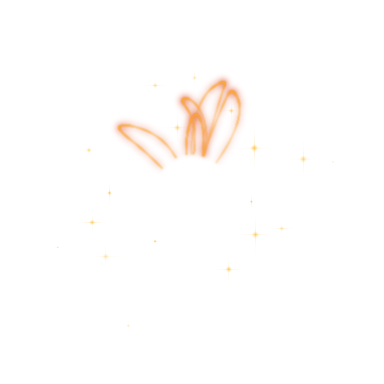
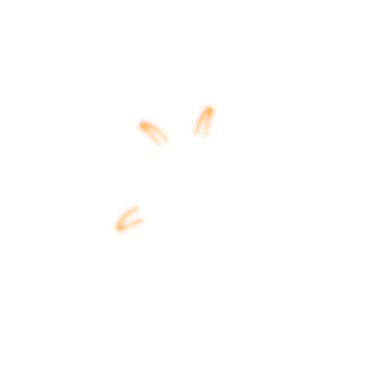
Gem light: subtle, slow and finely detailed
The light is smaller (about three gem-widths across), fainter, and built from fine noise like the
gems' own insides rather than drawn strokes: a white dwarf's glare and faint spikes over slowly
counter-turning radial grain; a sun's fine corona streamers and thin, broken threads of plasma
arching off its rim; a black hole's dust lanes drawn inward past a rippling lensed ring. Turns now
take minutes, and swells and shimmers move by a few percent over several seconds.

Claude-Session: https://claude.ai/code/session_01AGgLXhEWFDWnAiYRCGkagM

diff --git a/src/styles.css b/src/styles.css
@@ -4903,35 +4903,34 @@ button.cmp-turn { display: flex; align-items: baseline; gap: 6px; padding: 5px 1
 }
 
 /* ---------- The rarity gem's light ---------- */
-/* The body in each gem is breaking out of it: its light spills over the card, as detailed as the gem itself
-   (scripts/render_gem_light.py). A white dwarf's spikes flare with the gem's own breath while two fields of
-   fine filaments turn against each other and shimmer; a sun's corona streams out in curling streamers and
-   prominences loop off its rim and surge; a black hole drags spiral streaks of light in round its lensed ring.
-   Each layer turns, swells and flickers on its own clock, out of step with other cards (--gp). Only transform
-   (as rotate and scale) and opacity move, which the compositor runs off the main thread. */
+/* The body in each gem is breaking out of it: its light spills faintly over the card, in the same fine detail as
+   the gem itself (scripts/render_gem_light.py). A white dwarf's glare and faint diffraction spikes breathe with
+   the gem while two fields of fine radial grain turn slowly against each other and shimmer; a sun's corona
+   streams out in fine streamers while thin threads of plasma arch off its rim and slowly swell; a black hole's
+   dust lanes are dragged round it, inward, past its rippling lensed ring. Everything moves slowly and by little,
+   each layer on its own clock and out of step with other cards (--gp). Only rotate, scale and opacity move,
+   which the compositor runs off the main thread. */
 .gem .gem-light { display: none; }
-.card .gem .gem-light { display: block; position: absolute; inset: -200%; z-index: -2; pointer-events: none; opacity: 0.9; }
+/* (The light images are 1 / 0.3 gem-widths across, centred on the gem.) */
+.card .gem .gem-light { display: block; position: absolute; inset: -116.67%; z-index: -2; pointer-events: none; opacity: 0.85; }
 .card.kind-command .gem .gem-light { opacity: 1; }
 .gem-light .gl { position: absolute; inset: 0; display: block; background-size: 100% 100%; will-change: transform, opacity; }
-.gl-spikes { background-image: var(--gem-lightDwarfSpikes); animation: glFlare 3.8s ease-in-out infinite; animation-delay: calc(var(--gp) * -3.8s); }
-.gl-shimmer1 { background-image: var(--gem-lightDwarfShimmer1); animation: glTurn 70s linear infinite, glShimmer 1.9s ease-in-out infinite; animation-delay: calc(var(--gp) * -70s), calc(var(--gp) * -1.9s); }
-.gl-shimmer2 { background-image: var(--gem-lightDwarfShimmer2); animation: glTurnBack 47s linear infinite, glShimmer 2.7s ease-in-out infinite; animation-delay: calc(var(--gp) * -47s), calc(var(--gp) * -2.7s); }
-.gl-sparks { background-image: var(--gem-lightDwarfSparks); animation: glTurn 120s linear infinite, glTwinkle 1.3s ease-in-out infinite; animation-delay: calc(var(--gp) * -120s), calc(var(--gp) * -1.3s); }
-.gl-corona1 { background-image: var(--gem-lightSunCorona1); animation: glTurn 90s linear infinite, glBreathe 5.5s ease-in-out infinite; animation-delay: calc(var(--gp) * -90s), calc(var(--gp) * -5.5s); }
-.gl-corona2 { background-image: var(--gem-lightSunCorona2); animation: glTurnBack 130s linear infinite, glShimmer 3.3s ease-in-out infinite; animation-delay: calc(var(--gp) * -130s), calc(var(--gp) * -3.3s); }
-.gl-flares1 { background-image: var(--gem-lightSunFlares1); animation: glTurn 160s linear infinite, glSurge 4.2s ease-in-out infinite; animation-delay: calc(var(--gp) * -160s), calc(var(--gp) * -4.2s); }
-.gl-flares2 { background-image: var(--gem-lightSunFlares2); animation: glTurnBack 210s linear infinite, glSurge 6.1s ease-in-out infinite; animation-delay: calc(var(--gp) * -210s), calc(var(--gp) * -6.1s - 2s); }
-/* (Turning forward, the spirals' arms sweep inward: the hole is pulling the light in.) */
-.gl-swirl1 { background-image: var(--gem-lightHoleSwirl1); animation: glTurn 13s linear infinite, glShimmer 2.2s ease-in-out infinite; animation-delay: calc(var(--gp) * -13s), calc(var(--gp) * -2.2s); }
-.gl-swirl2 { background-image: var(--gem-lightHoleSwirl2); animation: glTurn 23s linear infinite, glBreathe 7s ease-in-out infinite; animation-delay: calc(var(--gp) * -23s), calc(var(--gp) * -7s); }
-.gl-lens { background-image: var(--gem-lightHoleLens); animation: glLens 2.6s ease-in-out infinite; animation-delay: calc(var(--gp) * -2.6s); }
+.gl-spikes { background-image: var(--gem-lightDwarfSpikes); animation: glBreathe 3.8s ease-in-out infinite; animation-delay: calc(var(--gp) * -3.8s); }
+.gl-shimmer1 { background-image: var(--gem-lightDwarfShimmer1); animation: glTurn 300s linear infinite, glShimmer 7s ease-in-out infinite; animation-delay: calc(var(--gp) * -300s), calc(var(--gp) * -7s); }
+.gl-shimmer2 { background-image: var(--gem-lightDwarfShimmer2); animation: glTurnBack 220s linear infinite, glShimmer 9.5s ease-in-out infinite; animation-delay: calc(var(--gp) * -220s), calc(var(--gp) * -9.5s - 3s); }
+.gl-sparks { background-image: var(--gem-lightDwarfSparks); animation: glTurn 480s linear infinite, glShimmer 6s ease-in-out infinite; animation-delay: calc(var(--gp) * -480s), calc(var(--gp) * -6s); }
+.gl-corona1 { background-image: var(--gem-lightSunCorona1); animation: glTurn 360s linear infinite, glBreathe 5.5s ease-in-out infinite; animation-delay: calc(var(--gp) * -360s), calc(var(--gp) * -5.5s); }
+.gl-corona2 { background-image: var(--gem-lightSunCorona2); animation: glTurnBack 480s linear infinite, glShimmer 8s ease-in-out infinite; animation-delay: calc(var(--gp) * -480s), calc(var(--gp) * -8s); }
+.gl-flares1 { background-image: var(--gem-lightSunFlares1); animation: glTurn 600s linear infinite, glSwell 11s ease-in-out infinite; animation-delay: calc(var(--gp) * -600s), calc(var(--gp) * -11s); }
+.gl-flares2 { background-image: var(--gem-lightSunFlares2); animation: glTurnBack 780s linear infinite, glSwell 14s ease-in-out infinite; animation-delay: calc(var(--gp) * -780s), calc(var(--gp) * -14s - 5s); }
+/* (Turning forward, the lanes' spirals sweep inward: the hole is pulling the light in.) */
+.gl-swirl1 { background-image: var(--gem-lightHoleSwirl1); animation: glTurn 60s linear infinite, glShimmer 8s ease-in-out infinite; animation-delay: calc(var(--gp) * -60s), calc(var(--gp) * -8s); }
+.gl-swirl2 { background-image: var(--gem-lightHoleSwirl2); animation: glTurn 110s linear infinite, glShimmer 12s ease-in-out infinite; animation-delay: calc(var(--gp) * -110s), calc(var(--gp) * -12s - 4s); }
+.gl-lens { background-image: var(--gem-lightHoleLens); animation: glLens 6s ease-in-out infinite; animation-delay: calc(var(--gp) * -6s); }
 @keyframes glTurn { to { rotate: 360deg; } }
 @keyframes glTurnBack { to { rotate: -360deg; } }
-@keyframes glFlare { 0%, 100% { scale: 0.9; opacity: 0.7; } 50% { scale: 1.08; opacity: 1; } }
-@keyframes glShimmer { 0%, 100% { opacity: 0.55; } 30% { opacity: 1; } 55% { opacity: 0.7; } 80% { opacity: 0.95; } }
-@keyframes glTwinkle { 0%, 100% { opacity: 0.4; } 25% { opacity: 1; } 50% { opacity: 0.6; } 70% { opacity: 0.95; } }
-@keyframes glBreathe { 0%, 100% { scale: 0.94; opacity: 0.75; } 50% { scale: 1.08; opacity: 1; } }
-/* A surge: the prominences heave outward, then sink back, as if pushing at the glass. */
-@keyframes glSurge { 0%, 100% { scale: 0.88; opacity: 0.55; } 40% { scale: 1.1; opacity: 1; } 55% { scale: 1.05; opacity: 0.9; } }
-@keyframes glLens { 0%, 100% { scale: 0.97; opacity: 0.75; } 50% { scale: 1.04; opacity: 1; } }
-@media (prefers-reduced-motion: reduce) { .gem-light .gl { animation-duration: 240s, 12s; } .gl-spikes, .gl-lens { animation-duration: 12s; } }
+@keyframes glBreathe { 0%, 100% { scale: 0.97; opacity: 0.8; } 50% { scale: 1.03; opacity: 1; } }
+@keyframes glShimmer { 0%, 100% { opacity: 0.7; } 35% { opacity: 1; } 65% { opacity: 0.8; } }
+@keyframes glSwell { 0%, 100% { scale: 0.98; opacity: 0.7; } 50% { scale: 1.04; opacity: 1; } }
+@keyframes glLens { 0%, 100% { scale: 0.99; opacity: 0.8; } 50% { scale: 1.015; opacity: 1; } }
+@media (prefers-reduced-motion: reduce) { .gem-light .gl { animation-duration: 1200s, 30s; } .gl-spikes, .gl-lens { animation-duration: 30s; } }

diff --git a/scripts/render_gem_light.py b/scripts/render_gem_light.py
@@ -7,7 +7,7 @@ sun's corona streaming out in curling streamers with prominences looping off its
 accretion streaks spiralling in and its lensed ring. Each is a few layers that CSS turns, breathes and
 flickers out of step (styles.css, "The rarity gem's light"), so the light never repeats.
 
-Each image is five gem-widths across with the gem in the middle (its window, radius G, is left dark: the
+Each image is a little over three gem-widths across with the gem in the middle (its window, radius G, is left dark: the
 gem covers it). Alpha carries the light, so it reads over the white card and over the picture alike.
 """
 import os
@@ -22,7 +22,7 @@ c = (N - 1) / 2
 dx, dy = (x - c) / (N / 2), (y - c) / (N / 2)
 r = np.hypot(dx, dy)
 th = np.arctan2(dy, dx)
-G = 0.2            # the gem's radius, in this image's half-widths
+G = 0.3            # the gem's radius, in this image's half-widths (the image is 1 / G gem-widths across)
 px = 2 / N         # one pixel, in the same units
 
 
@@ -81,19 +81,6 @@ def splat(points, weights, sigma):
     return gaussian_filter(img, sigma)
 
 
-def sparkles(seed, n, r0, r1, size, colour, light, bright=1.0):
-    """Tiny four-pointed sparkles scattered round the gem, dimmer further out."""
-    g = np.random.default_rng(seed)
-    for _ in range(n):
-        rr = r0 + (r1 - r0) * g.random() ** 1.6; aa = g.random() * 2 * np.pi
-        cx, cy = rr * np.cos(aa), rr * np.sin(aa)
-        s = size * (0.5 + g.random()); b = bright * (0.35 + 0.65 * g.random()) * (1.15 - rr)
-        ddx, ddy = dx - cx, dy - cy
-        core = np.exp(-(ddx ** 2 + ddy ** 2) / (2 * (s * 0.35) ** 2))
-        spikes = np.exp(-(ddx / (s * 0.1)) ** 2) * np.exp(-np.abs(ddy) / (s * 1.4)) + np.exp(-(ddy / (s * 0.1)) ** 2) * np.exp(-np.abs(ddx) / (s * 1.4))
-        light.add(b * (core * 1.5 + spikes * 0.7), colour)
-
-
 def rays(light, seed, n, width, length, colour_in, colour_out, bright, angles=None):
     """Thin straight rays out of the gem: random filaments, or set spikes when `angles` is given."""
     g = np.random.default_rng(seed)
@@ -108,86 +95,84 @@ def rays(light, seed, n, width, length, colour_in, colour_out, bright, angles=No
         light.add(amt, mix(colour_in, colour_out, (r - G) / (L * 2.2)))
 
 
-# ---------------------------------------------------------------- White dwarf: searing, crystalline
-ICE, WHITE, DEEP = [0.55, 0.75, 1.0], [0.92, 0.97, 1.0], [0.25, 0.45, 0.95]
+# The light is subtle: fine grain and soft falloff, the same kind of detail as inside the gems (noise turned and
+# swirled, not drawn strokes), faint enough that the card shows through it.
 
-L = Light()   # the spikes: four long, four short, like light through a telescope's vanes
-rays(L, 1, 0, 0.010, 0.42, WHITE, ICE, 2.6, angles=np.radians([0, 90, 180, 270]))
-rays(L, 2, 0, 0.007, 0.2, WHITE, ICE, 1.4, angles=np.radians([45, 135, 225, 315]))
-L.add(1.6 * np.exp(-np.maximum(r - G, 0) / 0.09), mix(WHITE, ICE, (r - G) / 0.2))   # the glare round the gem
+# ---------------------------------------------------------------- White dwarf: a searing point, finely rayed
+ICE, WHITE, DEEP = [0.6, 0.78, 1.0], [0.92, 0.97, 1.0], [0.32, 0.5, 0.95]
+near = np.maximum(r - G, 0)
+
+L = Light()   # its glare, with faint diffraction spikes (four, and four fainter between)
+L.add(1.1 * np.exp(-near / 0.07), mix(WHITE, ICE, near / 0.15))
+rays(L, 1, 0, 0.0045, 0.22, WHITE, ICE, 0.7, angles=np.radians([0, 90, 180, 270]))
+rays(L, 2, 0, 0.0035, 0.1, WHITE, ICE, 0.35, angles=np.radians([45, 135, 225, 315]))
 L.save('light-dwarf-spikes.png')
 
-for i, (seed, n) in enumerate([(11, 110), (12, 90)]):   # two fields of fine filaments, turned against each other: shimmer
+for i, seed in enumerate([11, 12]):   # two fields of very fine radial grain, turned slowly against each other: shimmer
     L = Light()
-    rays(L, seed, n, 0.0035, 0.2, WHITE, DEEP, 1.1)
+    grain = polar_noise(seed, 1440, 128, 0.7, 26)
+    grain = np.clip(grain * 1.6 - 0.65, 0, 1) ** 1.8
+    L.add(3.2 * grain * np.exp(-near / 0.13), mix(WHITE, DEEP, near / 0.3))
     L.save(f'light-dwarf-shimmer{i + 1}.png')
 
-L = Light()
-sparkles(21, 26, G * 1.2, 0.85, 0.022, ICE, L, 1.6)
+L = Light()   # a few motes of light caught in it
+g = np.random.default_rng(21)
+for _ in range(10):
+    rr = G * 1.15 + (0.85 - G * 1.15) * g.random() ** 1.5; aa = g.random() * 2 * np.pi
+    d2 = (dx - rr * np.cos(aa)) ** 2 + (dy - rr * np.sin(aa)) ** 2
+    L.add((0.5 + 0.5 * g.random()) * (1.1 - rr) * np.exp(-d2 / (2 * (px * 0.7) ** 2)), WHITE)
 L.save('light-dwarf-sparks.png')
 
-# ---------------------------------------------------------------- Stellar: a sun boiling over its socket
-CORE, GOLD, ORANGE, RED = [1.0, 0.95, 0.75], [1.0, 0.78, 0.3], [1.0, 0.5, 0.12], [0.85, 0.2, 0.05]
+# ---------------------------------------------------------------- Stellar: a sun's corona spilling over its socket
+CORE, GOLD, ORANGE, RED = [1.0, 0.93, 0.7], [1.0, 0.76, 0.3], [1.0, 0.52, 0.14], [0.86, 0.24, 0.06]
 
 def sun_heat(t):
     """0 (hottest, nearest) to 1: white-gold, gold, orange, red."""
     t = np.clip(t, 0, 1)[..., None]
     return np.where(t < 0.33, mix(CORE, GOLD, t[..., 0] / 0.33), np.where(t < 0.66, mix(GOLD, ORANGE, (t[..., 0] - 0.33) / 0.33), mix(ORANGE, RED, (t[..., 0] - 0.66) / 0.34)))
 
-for i, (seed, warp) in enumerate([(31, 0.55), (32, -0.4)]):   # the corona: streamers that curl as they leave
+for i, (seed, warp) in enumerate([(31, 0.35), (32, -0.28)]):   # the corona: fine streamers, curling a little as they leave
     L = Light()
-    s = polar_noise(seed, 720, 160, 2.2, 22, warp)
-    s2 = polar_noise(seed + 100, 360, 160, 5, 14, warp * 1.4)
-    streak = np.clip(s * 1.45 - 0.62, 0, 1) ** 2.4 + 0.35 * np.clip(s2 * 1.3 - 0.55, 0, 1) ** 2
-    fall = np.exp(-np.maximum(r - G, 0) / (0.17 + 0.14 * s2))
-    L.add(6.5 * streak * fall, sun_heat(0.3 + (r - G) / 0.4))
-    L.add(0.9 * np.exp(-np.maximum(r - G, 0) / 0.05), CORE)
-    L.save(f'light-sun-corona{i + 1}.png', 1.2)
+    s = polar_noise(seed, 1080, 128, 1.2, 20, warp)
+    s2 = polar_noise(seed + 100, 360, 128, 4, 12, warp * 1.3)
+    streak = np.clip(s * 1.5 - 0.66, 0, 1) ** 2 * (0.4 + 0.8 * s2)
+    L.add(5.5 * streak * np.exp(-near / (0.1 + 0.08 * s2)), sun_heat(0.25 + near / 0.3))
+    L.add(0.7 * np.exp(-near / 0.04), CORE)
+    L.save(f'light-sun-corona{i + 1}.png')
 
-for i, seed in enumerate([41, 42]):   # prominences: loops of plasma lifting off the rim, with their glow
+for i, seed in enumerate([41, 42]):   # prominences: thin threads of plasma arching off the rim, broken and faint
     g = np.random.default_rng(seed)
     L = Light()
-    for _ in range(5):
-        a0, span, h = g.random() * 2 * np.pi, 0.2 + 0.32 * g.random(), 0.16 + 0.3 * g.random()
-        lean = (g.random() - 0.5) * 0.6
-        t = np.linspace(0, 1, 900)
-        rr = G * 0.98 + h * np.sin(np.pi * t) * (1 + 0.06 * np.sin(3 * np.pi * t + g.random() * 6))
-        aa = a0 + span * (t - 0.5) + lean * np.sin(np.pi * t) ** 2
-        pts = np.stack([rr * np.cos(aa), rr * np.sin(aa)], axis=1)
-        flick = 0.55 + 0.45 * np.sin(23 * t + g.random() * 6) ** 2
-        w = flick / len(t) * 115                          # about one unit of light per pixel of loop
-        core = splat(pts, w, 0.9); glow = splat(pts, w, 3.5)
-        L.add(core * 2.8, sun_heat(np.full((N, N), 0.4)))
-        L.add(glow * 2.0, RED)
-    # embers flung off
-    sparkles(seed + 5, 18, G * 1.3, 0.8, 0.014, GOLD, L, 1.2)
-    L.save(f'light-sun-flares{i + 1}.png', 1.1)
+    for _ in range(3):
+        a0, span, h = g.random() * 2 * np.pi, 0.1 + 0.16 * g.random(), 0.06 + 0.1 * g.random()
+        lean = (g.random() - 0.5) * 0.3
+        t = np.linspace(0, 1, 1400)
+        for strand in range(3):   # each loop a few threads, a hair apart
+            off = (strand - 1) * 0.006
+            rr = G * 0.98 + (h + off) * np.sin(np.pi * t)
+            aa = a0 + span * (t - 0.5) + lean * np.sin(np.pi * t) ** 2 + off
+            pts = np.stack([rr * np.cos(aa), rr * np.sin(aa)], axis=1)
+            knots = np.interp(t, np.linspace(0, 1, 12), g.random(12)) ** 2     # brighter and dimmer along it
+            w = (0.25 + 0.75 * knots) / len(t) * 90
+            L.add(splat(pts, w, 1.0) * 0.55, sun_heat(np.full((N, N), 0.3)))
+            L.add(splat(pts, w, 3.0) * 0.9, ORANGE)
+    L.save(f'light-sun-flares{i + 1}.png')
 
-# ---------------------------------------------------------------- Anomaly: a black hole dragging the light round
-LILAC, VIOLET, MAGENTA, NIGHT = [0.93, 0.86, 1.0], [0.62, 0.38, 1.0], [0.85, 0.3, 0.95], [0.24, 0.08, 0.5]
+# ---------------------------------------------------------------- Anomaly: light dragged round a black hole
+LILAC, VIOLET, MAGENTA, NIGHT = [0.9, 0.84, 1.0], [0.6, 0.4, 1.0], [0.82, 0.36, 0.95], [0.26, 0.1, 0.5]
 
-def spiral(L, seed, n, k, width, bright, dark=0.0):
-    """Streaks along logarithmic spirals (angle = a0 + k ln(r / G)), each a broken length of arm."""
-    g = np.random.default_rng(seed)
-    lr = np.log(np.maximum(r, 1e-3) / G)
-    for _ in range(n):
-        a0 = g.random() * 2 * np.pi; kk = k * (0.8 + 0.4 * g.random())
-        r1 = G * (1.0 + 0.6 * g.random()); r2 = r1 + 0.15 + 0.5 * g.random()
-        d = np.abs(wrap(th - (a0 + kk * lr))) * r
-        seg = smoothstep(r1 - 0.03, r1 + 0.03, r) * smoothstep(r2, r2 - 0.12, r)
-        amt = np.exp(-(d / (width * (0.6 + 0.8 * g.random()) * (1 + 1.5 * (r - G)))) ** 2) * seg
-        is_dark = g.random() < dark
-        col = NIGHT if is_dark else mix(LILAC, MAGENTA if g.random() < 0.35 else VIOLET, (r - G) / 0.5)
-        L.add(bright * (0.4 + 0.6 * g.random()) * amt, col)
+for i, (seed, k, gain) in enumerate([(51, 2.2, 4.2), (52, 1.5, 3.0)]):   # dust lanes along spirals: noise, swirled
+    L = Light()
+    lanes = polar_noise(seed, 1080, 128, 1.0, 18, k)
+    broad = polar_noise(seed + 100, 240, 128, 6, 10, k)
+    lane = np.clip(lanes * 1.6 - 0.7, 0, 1) ** 1.8 * (0.3 + 0.9 * broad)
+    col = mix(mix(LILAC, VIOLET, near / 0.25), MAGENTA, np.clip(broad - 0.55, 0, 1) * 2)
+    L.add(gain * lane * np.exp(-near / 0.16), col)
+    L.save(f'light-hole-swirl{i + 1}.png')
 
-L = Light(); spiral(L, 51, 46, 2.6, 0.006, 1.6, dark=0.25); L.save('light-hole-swirl1.png')
-L = Light(); spiral(L, 52, 30, 1.8, 0.011, 1.1, dark=0.4); L.save('light-hole-swirl2.png')
-
-L = Light()   # the lensed ring just outside the socket, and light bent round it, rippling
-ripple = polar_noise(61, 360, 64, 3, 2)
-ring = np.exp(-((r - G * 1.32) / (0.012 + 0.01 * ripple)) ** 2) * (0.6 + 0.8 * ripple)
-L.add(2.2 * ring, mix(LILAC, VIOLET, ripple))
-L.add(0.8 * np.exp(-((r - G * 1.62) / 0.03) ** 2) * ripple ** 2, VIOLET)
-L.add(0.7 * np.exp(-np.maximum(r - G, 0) / 0.18), mix(VIOLET, NIGHT, (r - G) / 0.4))
-sparkles(62, 14, G * 1.5, 0.85, 0.016, LILAC, L, 1.0)
+L = Light()   # the lensed ring just outside the socket, rippling, and a dim violet haze
+ripple = polar_noise(61, 720, 64, 2, 2)
+ring = np.exp(-((r - G * 1.12) / (0.006 + 0.006 * ripple)) ** 2) * (0.4 + 0.8 * ripple)
+L.add(1.2 * ring, mix(LILAC, VIOLET, ripple))
+L.add(0.45 * np.exp(-near / 0.1), mix(VIOLET, NIGHT, near / 0.25))
 L.save('light-hole-lens.png')
